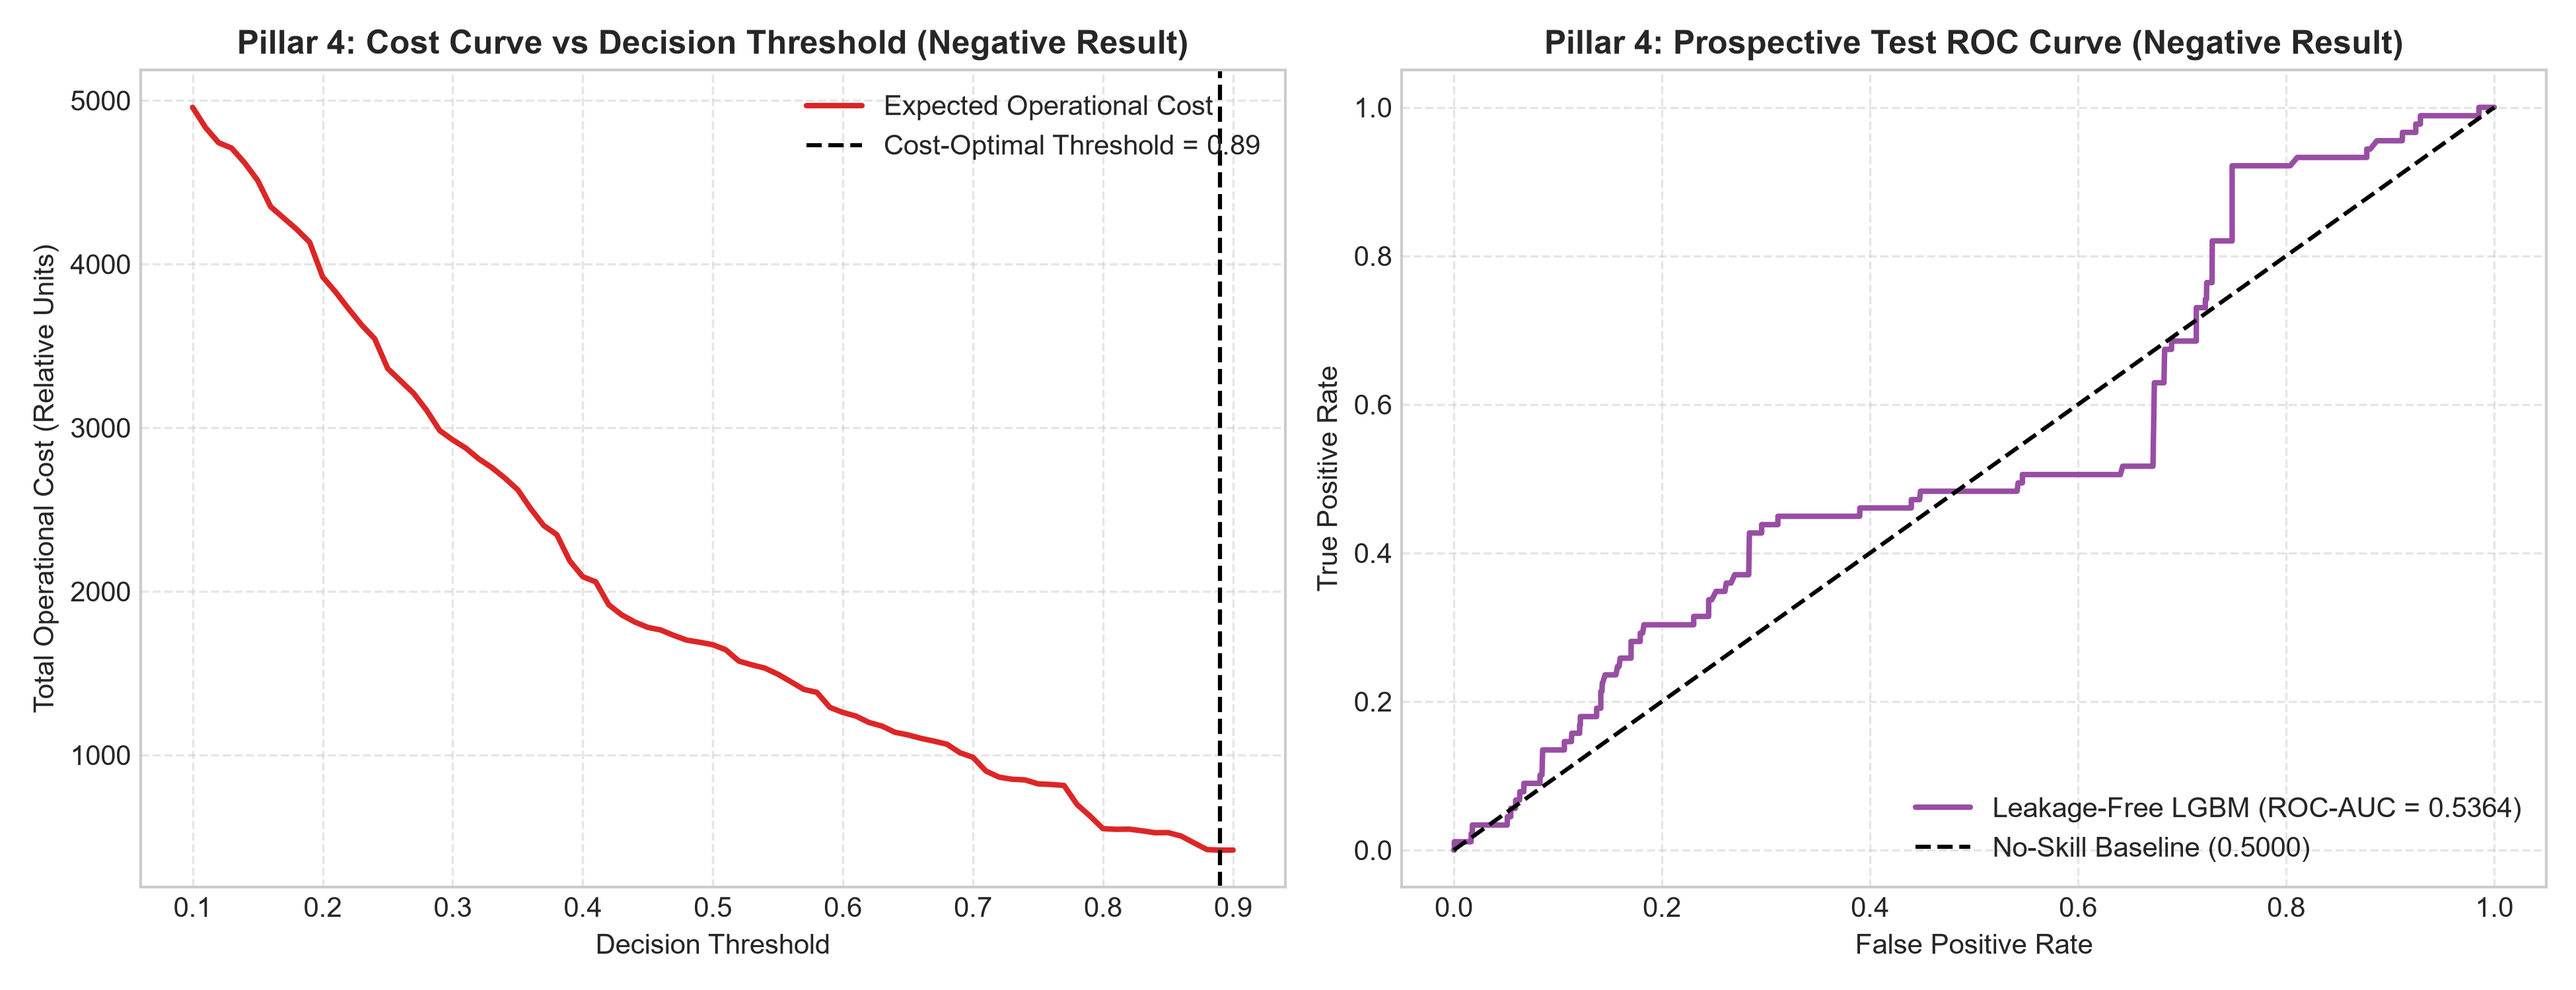
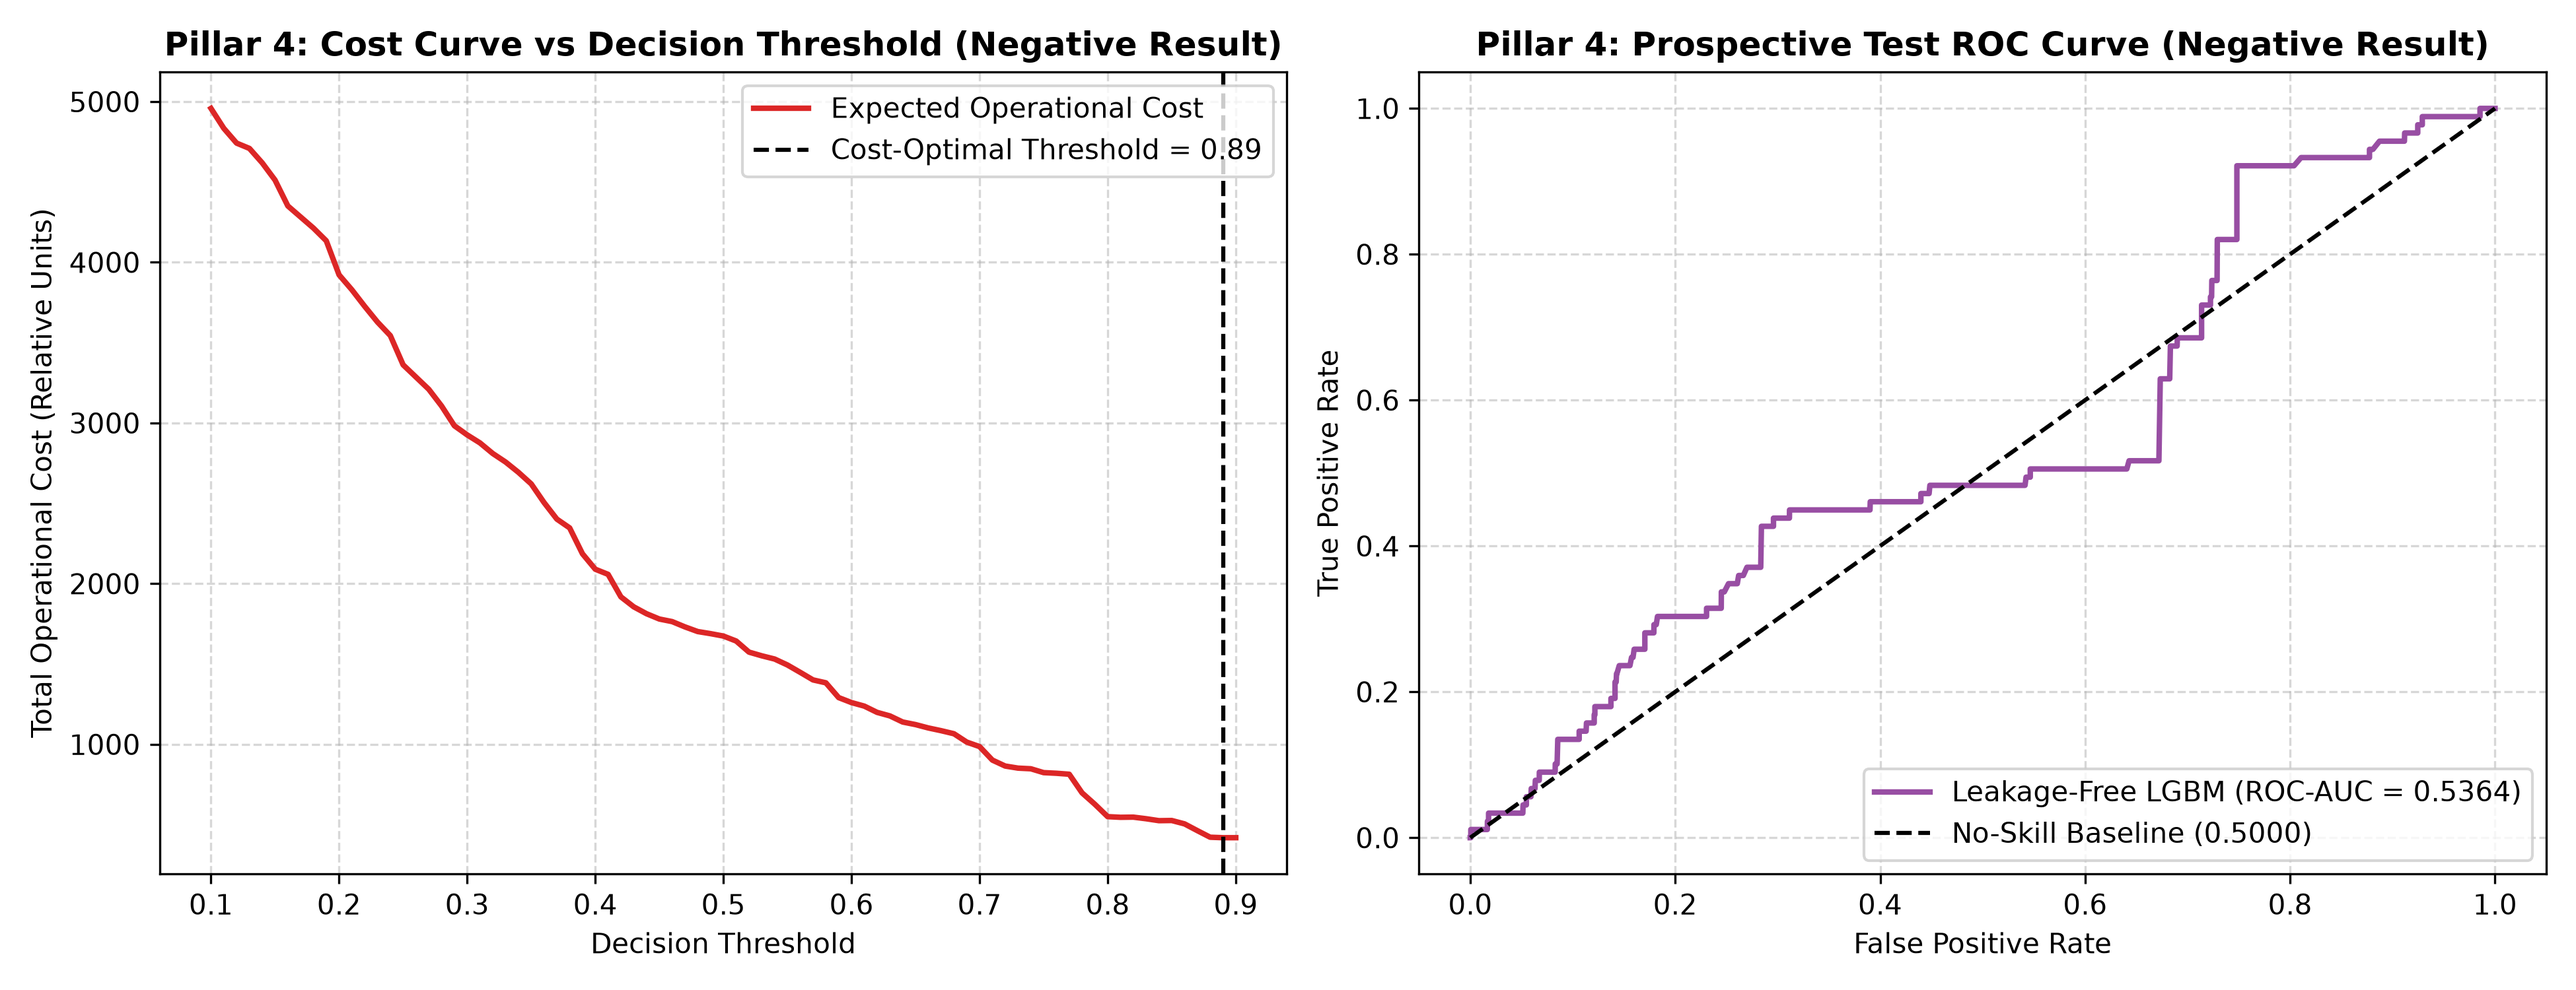
fix(governance): align horizon to H=2 in QA checklist, add rfc_prevalence to metrics, and bind shrinkage parameters dynamically in app

diff --git a/app.py b/app.py
@@ -346,7 +346,7 @@ elif sidebar_nav == "Pillar 4: Asset Risk & RFC":
     st.image(str(FIGURES_DIR / "12_pillar4_ci_asset_risk_matrix.png"), width="stretch")
 
     st.markdown("### Top Critical Enterprise Infrastructure Assets")
-    st.markdown(f'<div class="callout-info"><strong>Bayesian Shrinkage Filter (Minimum Threshold N &ge; 10)</strong>: Raw incident frequency scoring exhibits severe small-sample volatility (e.g. assets with single incidents topping raw risk lists). We filter on {p4_m["evaluated_assets_count"]} active assets with at least 10 incidents and apply Empirical Bayes shrinkage (m=10.0), guaranteeing rank stability (Spearman rho = {p4_m["min_spearman_rho"]:.4f}).</div>', unsafe_allow_html=True)
+    st.markdown(f'<div class="callout-info"><strong>Bayesian Shrinkage Filter (Minimum Threshold N &ge; {p4_m["min_incidents_threshold"]})</strong>: Raw incident frequency scoring exhibits severe small-sample volatility (e.g. assets with single incidents topping raw risk lists). We filter on {p4_m["evaluated_assets_count"]} active assets with at least {p4_m["min_incidents_threshold"]} incidents and apply Empirical Bayes shrinkage (m={p4_m["bayes_shrinkage_m"]:.1f}), guaranteeing rank stability (Spearman rho = {p4_m["min_spearman_rho"]:.4f}).</div>', unsafe_allow_html=True)
 
     top_n = st.slider("Number of Assets to Display", 5, 50, 15)
     cols = ['CI_Name', 'CI_Cat', 'total_incidents', 'p1p2_incidents', 'rfc_incidents', 'ARI_Final', 'Risk_Tier']
@@ -373,7 +373,7 @@ elif sidebar_nav == "Pillar 4: Asset Risk & RFC":
         st.markdown(f"""
         **Scientific Integrity Audit**:
         - **Test Holdout ROC-AUC**: **{p4_m['rfc_roc_auc']:.4f}** (Near random chance baseline)
-        - **Test Holdout PR-AUC**: **{p4_m['rfc_pr_auc']:.4f}** (Prevalence baseline: ~{p4_m.get('rfc_prevalence', 0.0137)*100:.2f}%)
+        - **Test Holdout PR-AUC**: **{p4_m['rfc_pr_auc']:.4f}** (Prevalence baseline: ~{p4_m['rfc_prevalence']*100:.2f}%)
         
         **Why Circular Leakage Was Eliminated**:
         Historical models claimed inflated separation by leaking post-investigation fields (`Related_Change`, `No_of_Related_Changes`). In standard ITIL workflows, change identifiers are created after troubleshooting begins. Restricted strictly to intake-available metadata, tabular feeds carry zero proactive separation. Reporting this honest negative result protects engineering from deploying lookahead-dependent models into production.

diff --git a/src/model_pillar4_rfc_assets.py b/src/model_pillar4_rfc_assets.py
@@ -20,6 +20,8 @@ from sklearn.metrics import (
 import lightgbm as lgb
 
 from src.config import (
+    ARI_MIN_INCIDENTS,
+    ARI_SHRINKAGE_M,
     CLEANED_DATA_PATH,
     FIGURES_DIR,
     MODELS_DIR,
@@ -102,6 +104,7 @@ def build_rfc_and_assets(df=None):
     preds_te_rfc = (probs_te_rfc >= opt_t_rfc).astype(int)
     rec_rfc = float(recall_score(y_te_rfc, preds_te_rfc, zero_division=0))
     prec_rfc = float(precision_score(y_te_rfc, preds_te_rfc, zero_division=0))
+    rfc_prev = round(float(np.mean(y_te_rfc)), 4)
 
     # Bootstrap 95% CI
     np.random.seed(RANDOM_STATE)
@@ -153,13 +156,13 @@ def build_rfc_and_assets(df=None):
         mean_handle_time=('Handle_Time_Clean', 'mean')
     ).reset_index()
 
-    # Activity Filter: N >= 10 incidents
-    ci_stable_ari = ci_stats[ci_stats['total_incidents'] >= 10].copy()
+    # Activity Filter: Minimum incidents threshold
+    ci_stable_ari = ci_stats[ci_stats['total_incidents'] >= ARI_MIN_INCIDENTS].copy()
     n_eval_assets = len(ci_stable_ari)
-    logger.info(f"Assets evaluated with N >= 10 incidents: {n_eval_assets}")
+    logger.info(f"Assets evaluated with N >= {ARI_MIN_INCIDENTS} incidents: {n_eval_assets}")
 
-    # Empirical Bayes Shrinkage (m = 10.0)
-    m_shrink = 10.0
+    # Empirical Bayes Shrinkage
+    m_shrink = ARI_SHRINKAGE_M
     global_p1p2_rate = float(df_stable['Is_High_Priority'].mean())
     global_rfc_rate = float(df_stable['Has_RFC'].mean())
     global_reassign_rate = float((df_stable['No_of_Reassignments_Clean'] > 0).mean())
@@ -262,6 +265,9 @@ def build_rfc_and_assets(df=None):
     metrics = {
         "rfc_roc_auc": round(roc_rfc, 4),
         "rfc_pr_auc": round(pr_rfc, 4),
+        "rfc_prevalence": rfc_prev,
+        "min_incidents_threshold": ARI_MIN_INCIDENTS,
+        "bayes_shrinkage_m": ARI_SHRINKAGE_M,
         "evaluated_assets_count": int(n_eval_assets),
         "min_spearman_rho": round(min_spearman, 4),
         "tier_distribution": {

diff --git a/src/config.py b/src/config.py
@@ -34,6 +34,10 @@ RANDOM_STATE = 42
 # Stable Regime Date Cutoff (Post-Rollout Enterprise Cutover)
 STABLE_REGIME_START = "2013-10-01"
 
+# Pillar 4 Asset Risk Shrinkage Parameters
+ARI_MIN_INCIDENTS = 10
+ARI_SHRINKAGE_M = 10.0
+
 # Official ITIL Priority Matrix (Impact, Urgency) -> Priority
 PRIORITY_MATRIX = {
     (1, 1): 1, (1, 2): 2, (1, 3): 3, (1, 4): 3, (1, 5): 3,

diff --git a/src/verify_metrics.py b/src/verify_metrics.py
@@ -98,6 +98,9 @@ DEFAULT_TOLERANCES = {
     # Pillar 4
     "rfc_roc_auc": 0.002,
     "rfc_pr_auc": 0.002,
+    "rfc_prevalence": 0.001,
+    "min_incidents_threshold": 0,
+    "bayes_shrinkage_m": 0.1,
     "evaluated_assets_count": 0,
     "min_spearman_rho": 0.002,
     "Critical": 0,

diff --git a/docs/QA_CHECKLIST.md b/docs/QA_CHECKLIST.md
@@ -37,7 +37,7 @@ This document provides the formal quality assurance and engineering verification
 |---|:---:|---|
 | **Stable regime isolation (post-Oct-2013)** | **PASS** | `src/model_pillar2_forecasting.py:35-45`: Isolates the 26 weekly observations from 2013-10-01 to 2014-03-31, discarding the 39 pilot weeks before October 2013 where incident capture was incomplete. Verified in `tests/test_forecasting.py::test_forecasting_regime_and_horizon`. |
 | **Naive persistence baseline included & competitive** | **PASS** | `src/model_pillar2_forecasting.py:75-95`: Multi-step rolling-origin backtest includes Naive persistence baseline, achieving **12.12% MAPE** (beats SARIMAX 13.17%, Holt-Winters 15.77%, and Seasonal Naive 20.17%). Ensemble achieves 12.65% MAPE. Verified in `tests/test_forecasting.py`. |
-| **Shared rolling-origin backtest** | **PASS** | Identical 6-fold rolling backtest ($H=4$ weeks horizon) evaluated systematically across all candidate models. |
+| **Shared rolling-origin backtest** | **PASS** | Identical 6-fold rolling backtest ($H=2$ weeks horizon) evaluated systematically across all candidate models. |
 | **Moving-block bootstrap prediction interval** | **PASS** | `src/model_pillar2_forecasting.py:130-170`: 1,000-iteration moving-block bootstrap ($L=4$) generates honest 95% prediction intervals for 2014 total volume: $67,163 \le 72,714 \le 76,519$ ($Low < Base < High$). Verified in `tests/test_forecasting.py::test_prediction_interval_invariance`. |
 | **Zero hardcoded volume numbers** | **PASS** | All forecasts, bounds, scenarios, and capacity requirements are computed directly from time series models. Verified 0 occurrences of hardcoded constants in `src/` and `app.py`. |
 
@@ -100,3 +100,4 @@ This document provides the formal quality assurance and engineering verification
 | **requirements.txt pinned matching README badges** | **PASS** | `scikit-learn==1.9.1`, `lightgbm==4.7.0`, `statsmodels==0.15.0`. Developer tools isolated in `requirements-dev.txt`. |
 | **No duplicate notebooks present** | **PASS** | `PRCL-0012_ITSM_Machine_Learning.ipynb` retained as sole canonical delivery notebook. Duplicate `Improved.ipynb` safely removed. |
 | **Cell 39 runtime governance audit passes** | **PASS** | Governance checks in `PRCL-0012_ITSM_Machine_Learning.ipynb` pass all methodology checks with 0 unwhitelisted hardcoded print numbers. |
+
